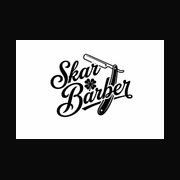
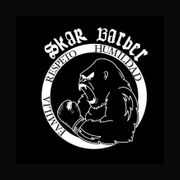
feat(pwa): icono de la app = gorila Skar Barber
Reemplaza el logo del login por el logotipo del gorila usado en el
header del panel. Bump SW v2 → v3 para invalidar iconos cacheados.

diff --git a/public/sw.js b/public/sw.js
@@ -7,7 +7,7 @@
  *  - Server actions, Supabase, /api/*: passthrough (siempre red).
  */
 
-const VERSION = "skarbarber-v2";
+const VERSION = "skarbarber-v3";
 const STATIC_CACHE = `${VERSION}-static`;
 const RUNTIME_CACHE = `${VERSION}-runtime`;
 const OFFLINE_URL = "/offline.html";
